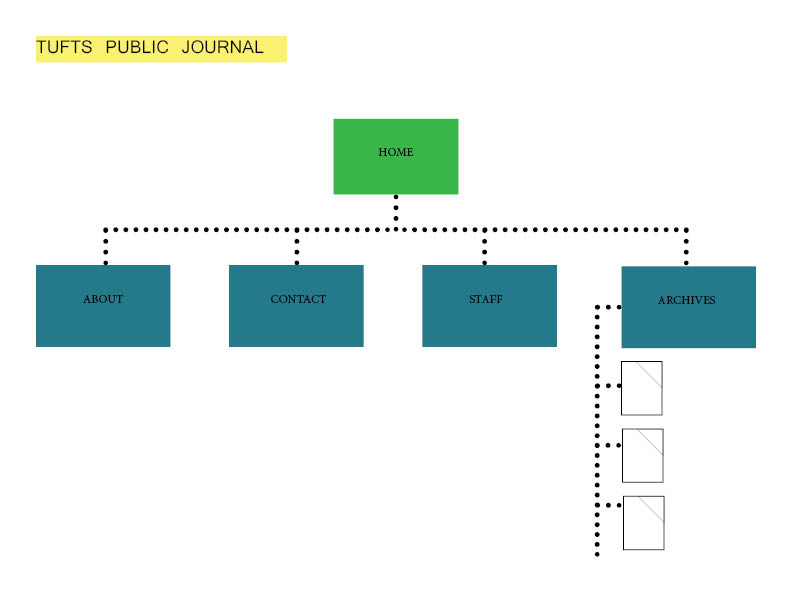
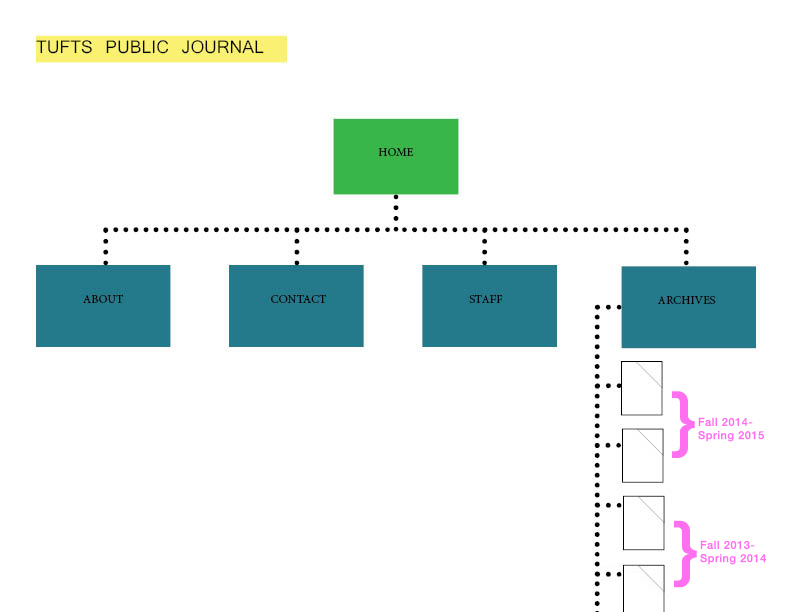
wireframe commit and site map update
..

diff --git a/HW6/style.css b/HW6/style.css
@@ -23,6 +23,12 @@ body {
 	float: top; 
 	margin: 0; 
 	padding: 0;
+	moz-column-count: 3;
+	moz-column-gap: 2px;
+	webkit-column-count: 3;
+	webkit-column-gap: 2px;
+	column-count: 3;
+	column-gap: 2px;
 	}
 p { 
 	font: helvetica thin;
